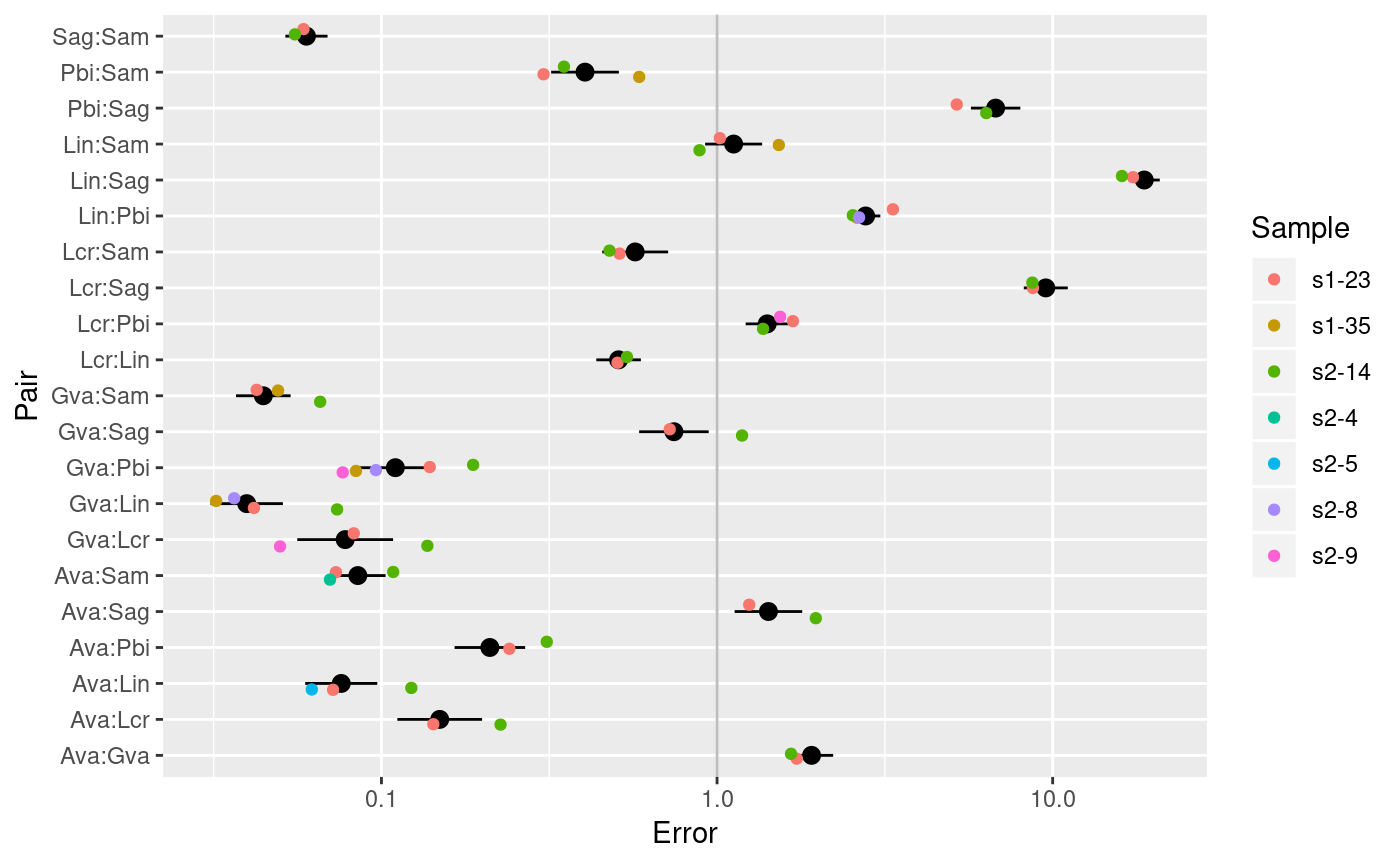
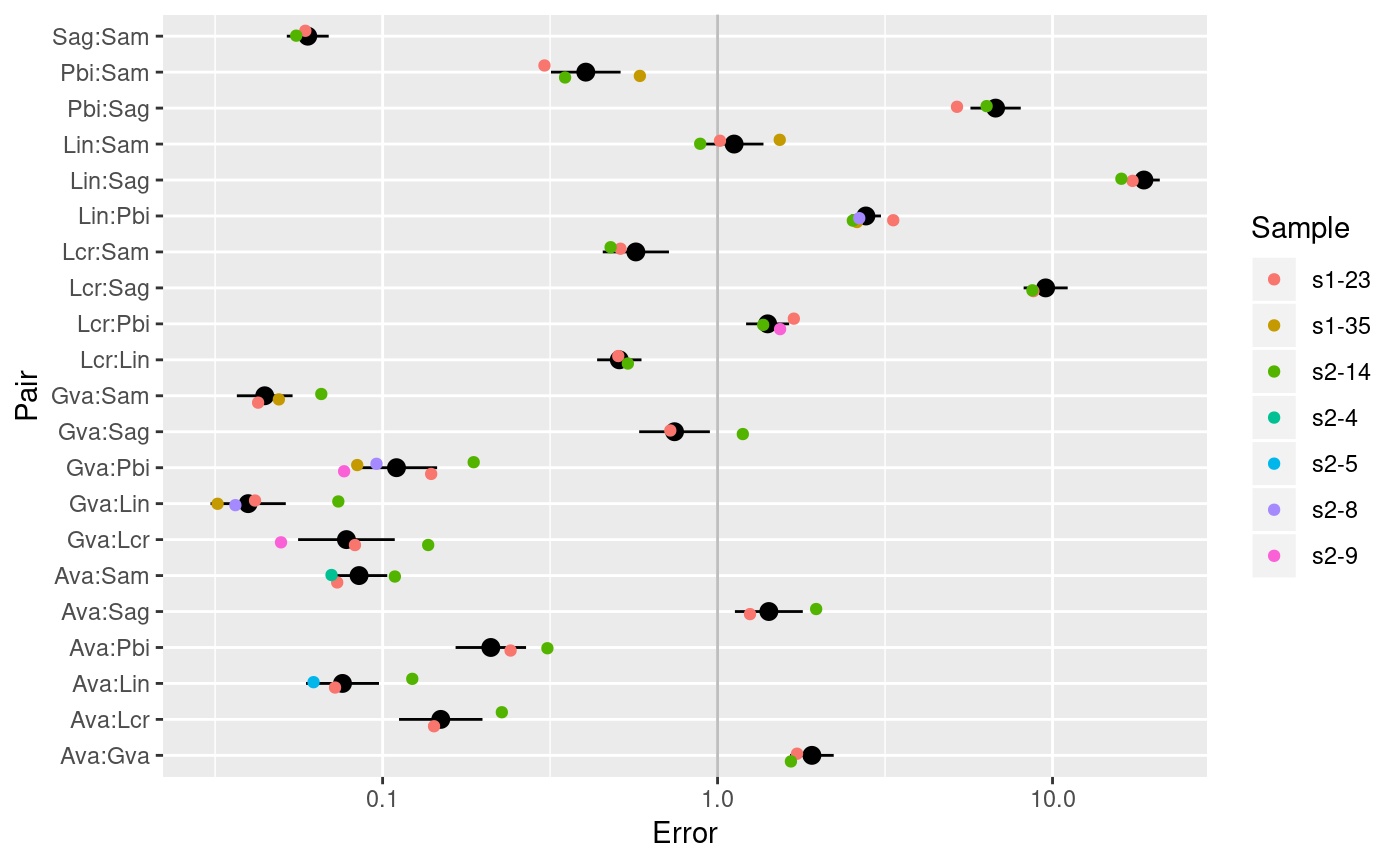
Update package version to 0.1.0

diff --git a/docs/articles/tutorial.html b/docs/articles/tutorial.html
@@ -30,7 +30,7 @@
       </button>
       <span class="navbar-brand">
         <a class="navbar-link" href="../index.html">metacal</a>
-        <span class="version label label-default" data-toggle="tooltip" data-placement="bottom" title="Released version">0.0.0.9000</span>
+        <span class="version label label-default" data-toggle="tooltip" data-placement="bottom" title="Released version">0.1.0</span>
       </span>
     </div>
 
@@ -372,13 +372,13 @@
 <span id="cb19-8"><a href="#cb19-8"></a><span class="co">#&gt; # A tibble: 7 x 4</span></span>
 <span id="cb19-9"><a href="#cb19-9"></a><span class="co">#&gt;   Taxon  Bhat Gm_mean Gm_se</span></span>
 <span id="cb19-10"><a href="#cb19-10"></a><span class="co">#&gt;   &lt;chr&gt; &lt;dbl&gt;   &lt;dbl&gt; &lt;dbl&gt;</span></span>
-<span id="cb19-11"><a href="#cb19-11"></a><span class="co">#&gt; 1 Ava   0.342   0.340  1.08</span></span>
-<span id="cb19-12"><a href="#cb19-12"></a><span class="co">#&gt; 2 Gva   0.179   0.179  1.09</span></span>
-<span id="cb19-13"><a href="#cb19-13"></a><span class="co">#&gt; 3 Lcr   2.30    2.31   1.08</span></span>
+<span id="cb19-11"><a href="#cb19-11"></a><span class="co">#&gt; 1 Ava   0.342   0.341  1.08</span></span>
+<span id="cb19-12"><a href="#cb19-12"></a><span class="co">#&gt; 2 Gva   0.179   0.180  1.10</span></span>
+<span id="cb19-13"><a href="#cb19-13"></a><span class="co">#&gt; 3 Lcr   2.30    2.30   1.08</span></span>
 <span id="cb19-14"><a href="#cb19-14"></a><span class="co">#&gt; 4 Lin   4.51    4.50   1.05</span></span>
 <span id="cb19-15"><a href="#cb19-15"></a><span class="co">#&gt; 5 Pbi   1.63    1.63   1.07</span></span>
 <span id="cb19-16"><a href="#cb19-16"></a><span class="co">#&gt; 6 Sam   4.03    4.02   1.06</span></span>
-<span id="cb19-17"><a href="#cb19-17"></a><span class="co">#&gt; 7 Sag   0.241   0.241  1.05</span></span></code></pre></div>
+<span id="cb19-17"><a href="#cb19-17"></a><span class="co">#&gt; 7 Sag   0.241   0.240  1.05</span></span></code></pre></div>
 <p>By converting the bootstrap estimates to pairwise estimates, we can also get standard errors for the pairwise bias,</p>
 <div class="sourceCode" id="cb20"><pre class="sourceCode r"><code class="sourceCode r"><span id="cb20-1"><a href="#cb20-1"></a>bootreps.pw &lt;-<span class="st"> </span>bootreps <span class="op">%&gt;%</span></span>
 <span id="cb20-2"><a href="#cb20-2"></a><span class="st">    </span><span class="kw"><a href="../reference/compute_ratios.html">compute_ratios</a></span>(<span class="dt">group_vars =</span> <span class="st">".id"</span>)</span>
@@ -392,14 +392,14 @@
 <span id="cb20-10"><a href="#cb20-10"></a><span class="co">#&gt;    &lt;chr&gt;   &lt;chr&gt;    &lt;dbl&gt; &lt;chr&gt;     &lt;dbl&gt; &lt;dbl&gt;</span></span>
 <span id="cb20-11"><a href="#cb20-11"></a><span class="co">#&gt;  1 Ava     Ava     1      Ava:Ava  1       1   </span></span>
 <span id="cb20-12"><a href="#cb20-12"></a><span class="co">#&gt;  2 Ava     Gva     1.91   Ava:Gva  1.90    1.08</span></span>
-<span id="cb20-13"><a href="#cb20-13"></a><span class="co">#&gt;  3 Ava     Lcr     0.149  Ava:Lcr  0.147   1.16</span></span>
-<span id="cb20-14"><a href="#cb20-14"></a><span class="co">#&gt;  4 Ava     Lin     0.0759 Ava:Lin  0.0756  1.13</span></span>
-<span id="cb20-15"><a href="#cb20-15"></a><span class="co">#&gt;  5 Ava     Pbi     0.210  Ava:Pbi  0.208   1.13</span></span>
-<span id="cb20-16"><a href="#cb20-16"></a><span class="co">#&gt;  6 Ava     Sag     1.42   Ava:Sag  1.41    1.12</span></span>
-<span id="cb20-17"><a href="#cb20-17"></a><span class="co">#&gt;  7 Ava     Sam     0.0850 Ava:Sam  0.0847  1.10</span></span>
-<span id="cb20-18"><a href="#cb20-18"></a><span class="co">#&gt;  8 Gva     Ava     0.523  Gva:Ava  0.526   1.08</span></span>
+<span id="cb20-13"><a href="#cb20-13"></a><span class="co">#&gt;  3 Ava     Lcr     0.149  Ava:Lcr  0.148   1.15</span></span>
+<span id="cb20-14"><a href="#cb20-14"></a><span class="co">#&gt;  4 Ava     Lin     0.0759 Ava:Lin  0.0759  1.13</span></span>
+<span id="cb20-15"><a href="#cb20-15"></a><span class="co">#&gt;  5 Ava     Pbi     0.210  Ava:Pbi  0.209   1.13</span></span>
+<span id="cb20-16"><a href="#cb20-16"></a><span class="co">#&gt;  6 Ava     Sag     1.42   Ava:Sag  1.42    1.12</span></span>
+<span id="cb20-17"><a href="#cb20-17"></a><span class="co">#&gt;  7 Ava     Sam     0.0850 Ava:Sam  0.0850  1.10</span></span>
+<span id="cb20-18"><a href="#cb20-18"></a><span class="co">#&gt;  8 Gva     Ava     0.523  Gva:Ava  0.527   1.08</span></span>
 <span id="cb20-19"><a href="#cb20-19"></a><span class="co">#&gt;  9 Gva     Gva     1      Gva:Gva  1       1   </span></span>
-<span id="cb20-20"><a href="#cb20-20"></a><span class="co">#&gt; 10 Gva     Lcr     0.0780 Gva:Lcr  0.0776  1.18</span></span>
+<span id="cb20-20"><a href="#cb20-20"></a><span class="co">#&gt; 10 Gva     Lcr     0.0780 Gva:Lcr  0.0780  1.18</span></span>
 <span id="cb20-21"><a href="#cb20-21"></a><span class="co">#&gt; # … with 39 more rows</span></span></code></pre></div>
 </div>
 <div id="evaluate-the-bias-estimate-visually" class="section level2">

diff --git a/docs/reference/cooccurrence.html b/docs/reference/cooccurrence.html
@@ -64,7 +64,7 @@ the bias estimated by the center() function is fully-determined." />
       </button>
       <span class="navbar-brand">
         <a class="navbar-link" href="../index.html">metacal</a>
-        <span class="version label label-default" data-toggle="tooltip" data-placement="bottom" title="Released version">0.0.0.9000</span>
+        <span class="version label label-default" data-toggle="tooltip" data-placement="bottom" title="Released version">0.1.0</span>
       </span>
     </div>
 

diff --git a/docs/reference/build_matrix.html b/docs/reference/build_matrix.html
@@ -64,7 +64,7 @@ corresponding to missing rows, with the value of fill." />
       </button>
       <span class="navbar-brand">
         <a class="navbar-link" href="../index.html">metacal</a>
-        <span class="version label label-default" data-toggle="tooltip" data-placement="bottom" title="Released version">0.0.0.9000</span>
+        <span class="version label label-default" data-toggle="tooltip" data-placement="bottom" title="Released version">0.1.0</span>
       </span>
     </div>
 

diff --git a/docs/reference/proj_mat.html b/docs/reference/proj_mat.html
@@ -64,7 +64,7 @@ See vandenBoogaart2006 and Bren2008." />
       </button>
       <span class="navbar-brand">
         <a class="navbar-link" href="../index.html">metacal</a>
-        <span class="version label label-default" data-toggle="tooltip" data-placement="bottom" title="Released version">0.0.0.9000</span>
+        <span class="version label label-default" data-toggle="tooltip" data-placement="bottom" title="Released version">0.1.0</span>
       </span>
     </div>
 

diff --git a/docs/reference/corner.html b/docs/reference/corner.html
@@ -67,7 +67,7 @@ below to see their documentation.
       </button>
       <span class="navbar-brand">
         <a class="navbar-link" href="../index.html">metacal</a>
-        <span class="version label label-default" data-toggle="tooltip" data-placement="bottom" title="Released version">0.0.0.9000</span>
+        <span class="version label label-default" data-toggle="tooltip" data-placement="bottom" title="Released version">0.1.0</span>
       </span>
     </div>
 

diff --git a/docs/articles/index.html b/docs/articles/index.html
@@ -60,7 +60,7 @@
       </button>
       <span class="navbar-brand">
         <a class="navbar-link" href="../index.html">metacal</a>
-        <span class="version label label-default" data-toggle="tooltip" data-placement="bottom" title="Released version">0.0.0.9000</span>
+        <span class="version label label-default" data-toggle="tooltip" data-placement="bottom" title="Released version">0.1.0</span>
       </span>
     </div>
 

diff --git a/docs/reference/anorm.html b/docs/reference/anorm.html
@@ -63,7 +63,7 @@
       </button>
       <span class="navbar-brand">
         <a class="navbar-link" href="../index.html">metacal</a>
-        <span class="version label label-default" data-toggle="tooltip" data-placement="bottom" title="Released version">0.0.0.9000</span>
+        <span class="version label label-default" data-toggle="tooltip" data-placement="bottom" title="Released version">0.1.0</span>
       </span>
     </div>
 

diff --git a/docs/reference/as_matrix.html b/docs/reference/as_matrix.html
@@ -63,7 +63,7 @@
       </button>
       <span class="navbar-brand">
         <a class="navbar-link" href="../index.html">metacal</a>
-        <span class="version label label-default" data-toggle="tooltip" data-placement="bottom" title="Released version">0.0.0.9000</span>
+        <span class="version label label-default" data-toggle="tooltip" data-placement="bottom" title="Released version">0.1.0</span>
       </span>
     </div>
 

diff --git a/docs/reference/bootrep_center.html b/docs/reference/bootrep_center.html
@@ -63,7 +63,7 @@
       </button>
       <span class="navbar-brand">
         <a class="navbar-link" href="../index.html">metacal</a>
-        <span class="version label label-default" data-toggle="tooltip" data-placement="bottom" title="Released version">0.0.0.9000</span>
+        <span class="version label label-default" data-toggle="tooltip" data-placement="bottom" title="Released version">0.1.0</span>
       </span>
     </div>
 

diff --git a/docs/reference/center.html b/docs/reference/center.html
@@ -63,7 +63,7 @@
       </button>
       <span class="navbar-brand">
         <a class="navbar-link" href="../index.html">metacal</a>
-        <span class="version label label-default" data-toggle="tooltip" data-placement="bottom" title="Released version">0.0.0.9000</span>
+        <span class="version label label-default" data-toggle="tooltip" data-placement="bottom" title="Released version">0.1.0</span>
       </span>
     </div>
 

diff --git a/docs/reference/center_elts.html b/docs/reference/center_elts.html
@@ -63,7 +63,7 @@
       </button>
       <span class="navbar-brand">
         <a class="navbar-link" href="../index.html">metacal</a>
-        <span class="version label label-default" data-toggle="tooltip" data-placement="bottom" title="Released version">0.0.0.9000</span>
+        <span class="version label label-default" data-toggle="tooltip" data-placement="bottom" title="Released version">0.1.0</span>
       </span>
     </div>
 

diff --git a/docs/reference/close_elts.html b/docs/reference/close_elts.html
@@ -63,7 +63,7 @@
       </button>
       <span class="navbar-brand">
         <a class="navbar-link" href="../index.html">metacal</a>
-        <span class="version label label-default" data-toggle="tooltip" data-placement="bottom" title="Released version">0.0.0.9000</span>
+        <span class="version label label-default" data-toggle="tooltip" data-placement="bottom" title="Released version">0.1.0</span>
       </span>
     </div>
 
